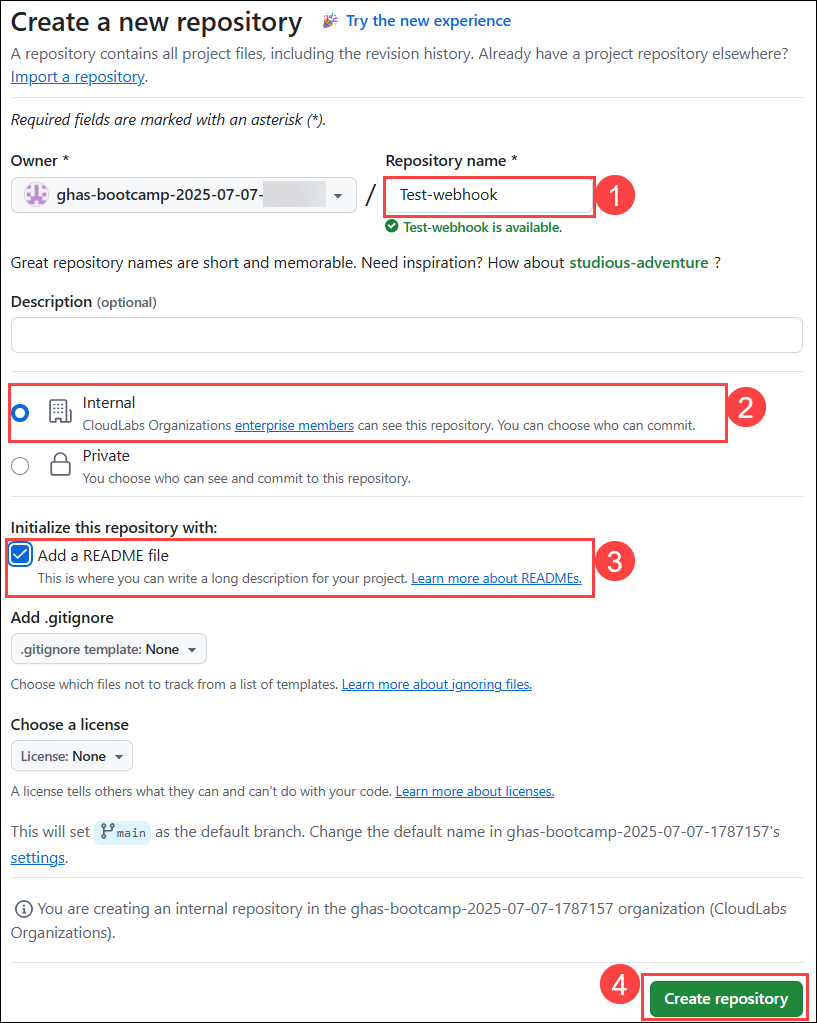
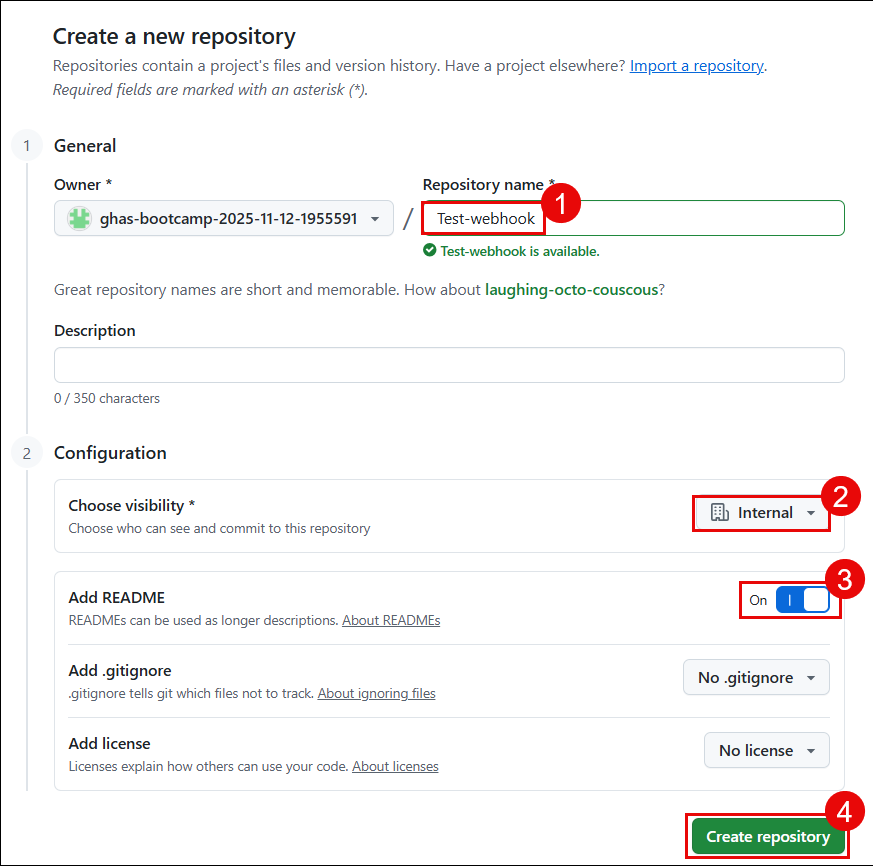
Update

diff --git a/Labs/Lab-08.md b/Labs/Lab-08.md
@@ -23,7 +23,7 @@ In this task, you will create a security campaign using GitHub Security features
 
 **Security Campaigns:** [GitHub Security Campaigns](https://docs.github.com/en/enterprise-cloud@latest/code-security/code-scanning/managing-code-scanning-alerts/fixing-alerts-in-security-campaign) are a feature within GitHub Advanced Security designed to help teams address security vulnerabilities at scale. These campaigns use Copilot Autofix to suggest fixes for up to 1,000 code scanning alerts at a time, allowing developers and security teams to collaborate efficiently. By prioritizing and fixing these alerts, teams can significantly reduce security debt and improve the overall security of their codebase
 
-1. Select the **ghas-bootcamp-xxxx-xx-xx-<inject key="Deployment-id" enableCopy="false"/>** organization from the top.
+1. Select the **ghas-bootcamp-xxxx-xx-xx-<inject key="DeploymentID" enableCopy="false"/>** organization from the top.
 
    ![](../images/T1S1iii.png)
 
@@ -170,7 +170,7 @@ There is a limit of 10 active campaigns. When a campaign is complete, or if you 
 
    ![Picture1](../images/mod7-task3-step1new.png)
 
-1. Under your organization name, Click the **Settings** tab from the top right corner of the navigation bar.
+1. Under your organization name, Click the **Security** tab from the top right corner of the navigation bar.
 
    ![Picture1](../images/security-tabat.png)
 

diff --git a/Labs/Lab-09.md b/Labs/Lab-09.md
@@ -65,7 +65,7 @@ In this task, you will explore the GHAS security overview dashboard and reports 
 
    ![Picture1](../images/org.png) 
      
-1. Select **ghas-bootcamp-xxxx-xx-xx-** from **organizations**.
+1. Select **ghas-bootcamp-xxxx-xx-xx-<inject key="DeploymentID" enableCopy="false"/>** from **organizations**.
 
    ![Picture1](../images/org-new1.png) 
 
